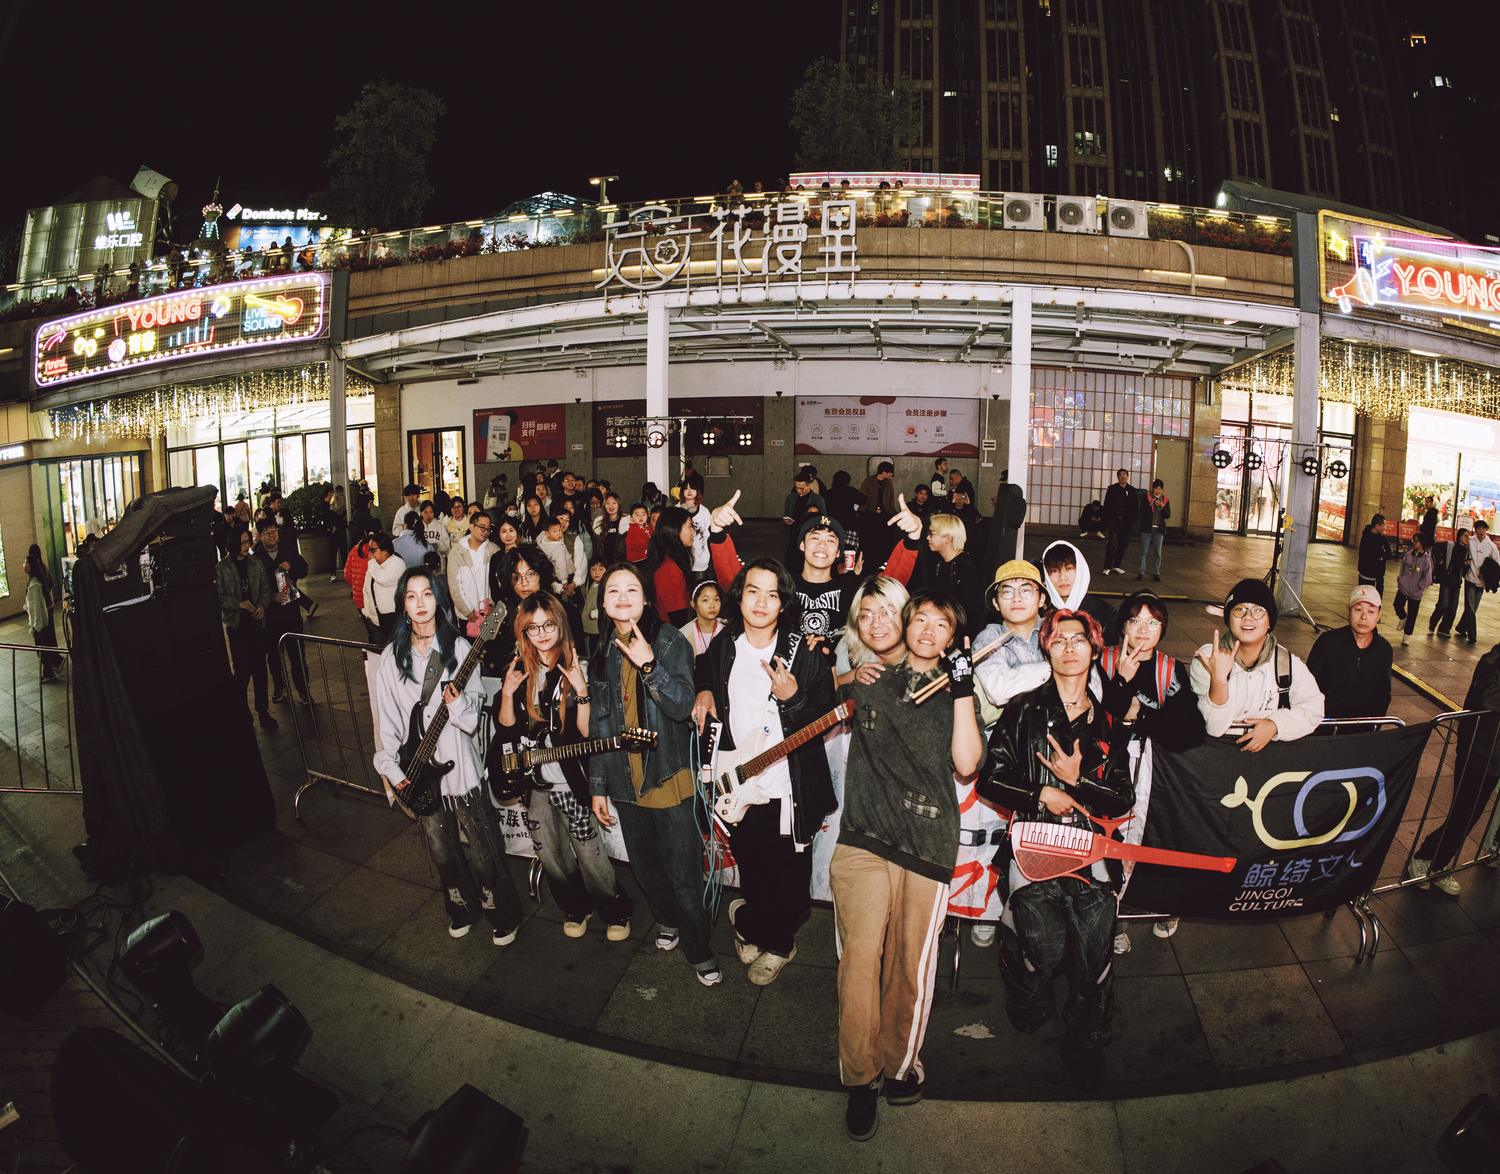
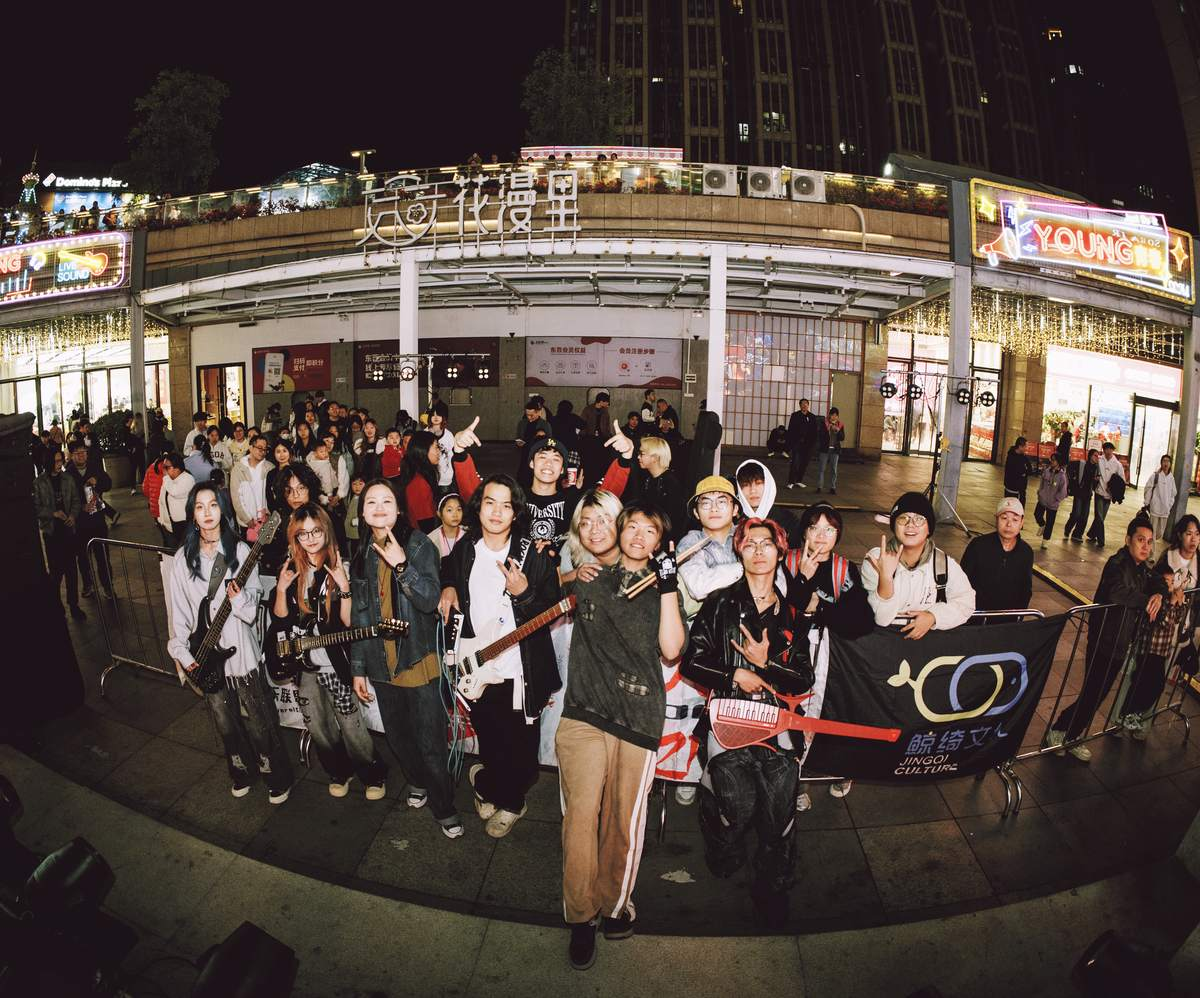
封面裁去左右10%并进一步压缩（webp 142KB）

diff --git a/qidian/index.html b/qidian/index.html
@@ -4,8 +4,8 @@
 <meta charset="UTF-8">
 <meta name="viewport" content="width=device-width, initial-scale=1.0, viewport-fit=cover">
 <title>启点乐队 · 招新</title>
-<link rel="stylesheet" href="style.css?v=10">
-<link rel="preload" as="image" href="picture/DSC_8650_cover.webp?v=4">
+<link rel="stylesheet" href="style.css?v=11">
+<link rel="preload" as="image" href="picture/DSC_8650_cover.webp?v=5">
 <link rel="preload" as="image" href="picture/865eef07159ce5806c21fc6494d85a21_s.webp">
 <link rel="preload" as="image" href="picture/547a4ffb58e353ded517ff76b41d2df9.webp">
 </head>

diff --git a/qidian/style.css b/qidian/style.css
@@ -222,10 +222,10 @@ body {
 
 /* ---------- 封面 ---------- */
 .slide-cover {
-  background-image: url("picture/DSC_8650_cover.jpg?v=4");
+  background-image: url("picture/DSC_8650_cover.jpg?v=5");
   background-image: image-set(
-    url("picture/DSC_8650_cover.webp?v=4") type("image/webp") 1x,
-    url("picture/DSC_8650_cover.jpg?v=4") type("image/jpeg") 1x
+    url("picture/DSC_8650_cover.webp?v=5") type("image/webp") 1x,
+    url("picture/DSC_8650_cover.jpg?v=5") type("image/jpeg") 1x
   );
   background-size: cover;
   background-position: center;
